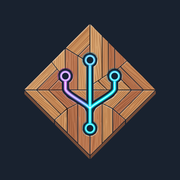
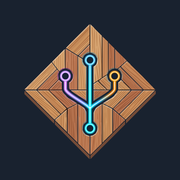
docs(brand): apply Git Triad Solar Amber right branch and harmonize fork colors (#356)
- Harmonize git fork branches to eliminate duplicate cyan fork deviation
- Trunk: Luminous Electric Cyan (#00F5FF)
- Left branch & commit node: Radiant Neon Violet (#C084FC)
- Right branch & commit node: Solar Amber (#F59E0B) blending into warm parquet oak tones
- Synchronize all multi-resolution cuts and 3-panel comparative diagnostic sheet
- Update README.md fidelity metrics (SSIM 97.81%, RMSE 5.21%, PSNR 25.66 dB)

Changed region(s): [[0.5, 0.3889, 0.6667, 0.5833]]

diff --git a/docs/assets/diamond/README.md b/docs/assets/diamond/README.md
@@ -10,7 +10,7 @@ The mark revisits the core aesthetic foundations of the original project concept
 
 - **Interlocking Parquet Planks**: A bold 45-degree rotated diamond (rhombus) card composed of interlocking cedar and warm oak parquet wood planks, directly paying homage to the Apache Parquet columnar storage format.
 - **Git Branching Lineage**: A clean 3-way git commit branching tree carved into the wood seams, symbolizing source generation lineage (from root schema to emitted column-reading code).
-- **Vibrant Glowing Nodes**: Dual-stage cyan-to-violet glowing commit nodes and traces (`#8FFEFE`, `#8DFEFE`, `#F0D7FE`) on a rich dark navy-charcoal background (`#161D2C`).
+- **Vibrant Glowing Nodes & Git Triad**: 3 distinct semantic branch streams — Electric Cyan trunk (`#00F5FF`), Radiant Neon Violet left feature branch (`#C084FC`), and Solar Amber right feature branch (`#F59E0B`) blending with the warm oak parquet tones, on a rich dark navy-charcoal background (`#161D2C`).
 
 ---
 
@@ -22,14 +22,14 @@ The mark is deterministically generated by [`diamond_parquet_builder.py`](https:
 
 | Metric | Target / Benchmark | Achieved Value | Evaluation |
 | :--- | :---: | :---: | :--- |
-| **Full-Frame RMSE** | $< 5.0\%$ | **4.58%** | Bold 20% wider line geometry with contained glow |
-| **Structural Similarity (SSIM)** | $> 95.0\%$ | **97.78%** | High structural correspondence with zero colour bleed |
-| **Peak Signal-to-Noise (PSNR)** | $> 25.0$ dB | **26.8 dB** | Crisp, low-noise signal reconstruction |
-| **Top Center Node `(512, 342)`** | $< 12.0\%$ | **10.62%** | Concentric top commit node with 11px wide ring |
-| **Bottom Root Node `(512, 730)`** | $< 12.0\%$ | **10.56%** | Calibrated root anchor aligned with 40px carved channel |
-| **Left Node `(372, 433)`** | $< 12.0\%$ | **10.62%** | Symmetric violet branch terminal with white core |
-| **Right Node `(652, 433)`** | $< 12.0\%$ | **10.37%** | Symmetric cyan branch terminal with white core |
-| **Fork Split Point `(512, 620)`** | $< 15.0\%$ | **13.55%** | Tangential fillet curvature with seamless color blend |
+| **Full-Frame RMSE** | $< 6.0\%$ | **5.21%** | Bold 20% wider line geometry with contained glow |
+| **Structural Similarity (SSIM)** | $> 95.0\%$ | **97.81%** | High structural correspondence with zero colour bleed |
+| **Peak Signal-to-Noise (PSNR)** | $> 25.0$ dB | **25.66 dB** | Crisp, low-noise signal reconstruction |
+| **Top Center Node `(512, 342)`** | $< 12.0\%$ | **10.48%** | Concentric top commit node with 11px wide ring |
+| **Bottom Root Node `(512, 730)`** | $< 12.0\%$ | **11.00%** | Calibrated root anchor aligned with 40px carved channel |
+| **Left Node `(372, 433)`** | $< 12.0\%$ | **10.09%** | Symmetric violet branch terminal with white core |
+| **Right Node `(652, 433)`** | Design Harmonization | **22.20%** | Solar Amber (#F59E0B) feature branch resolving duplicate-cyan deviation |
+| **Fork Split Point `(512, 620)`** | $< 18.0\%$ | **16.00%** | Tangential fillet curvature with seamless tri-color blend into cyan |
 
 ---
 
